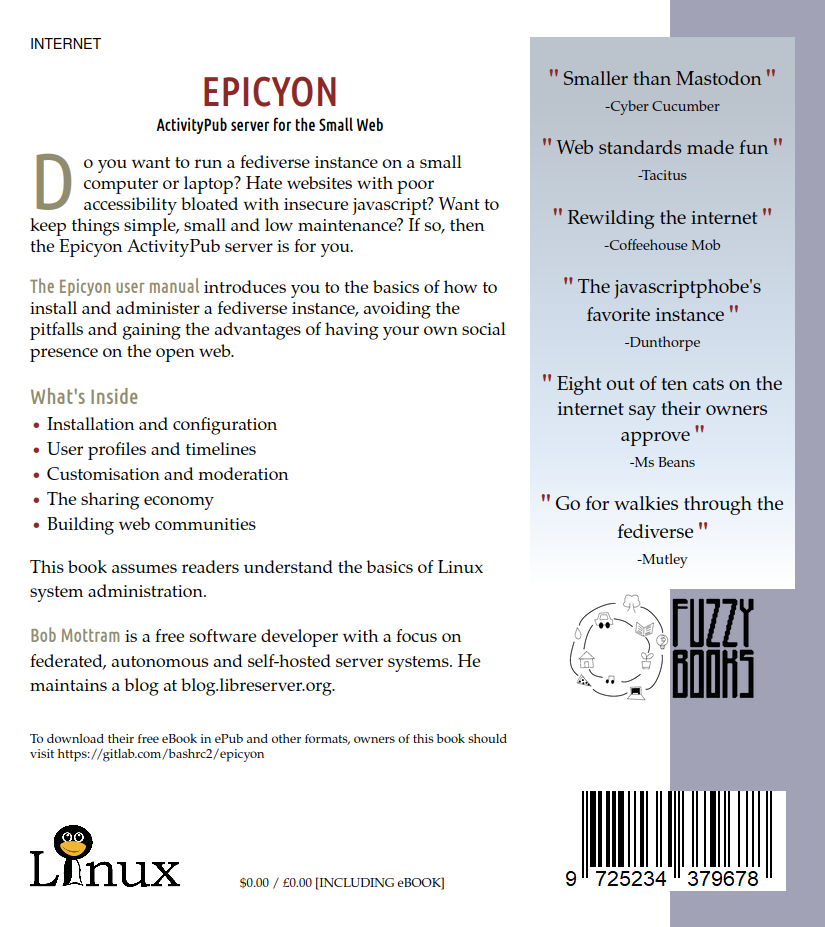
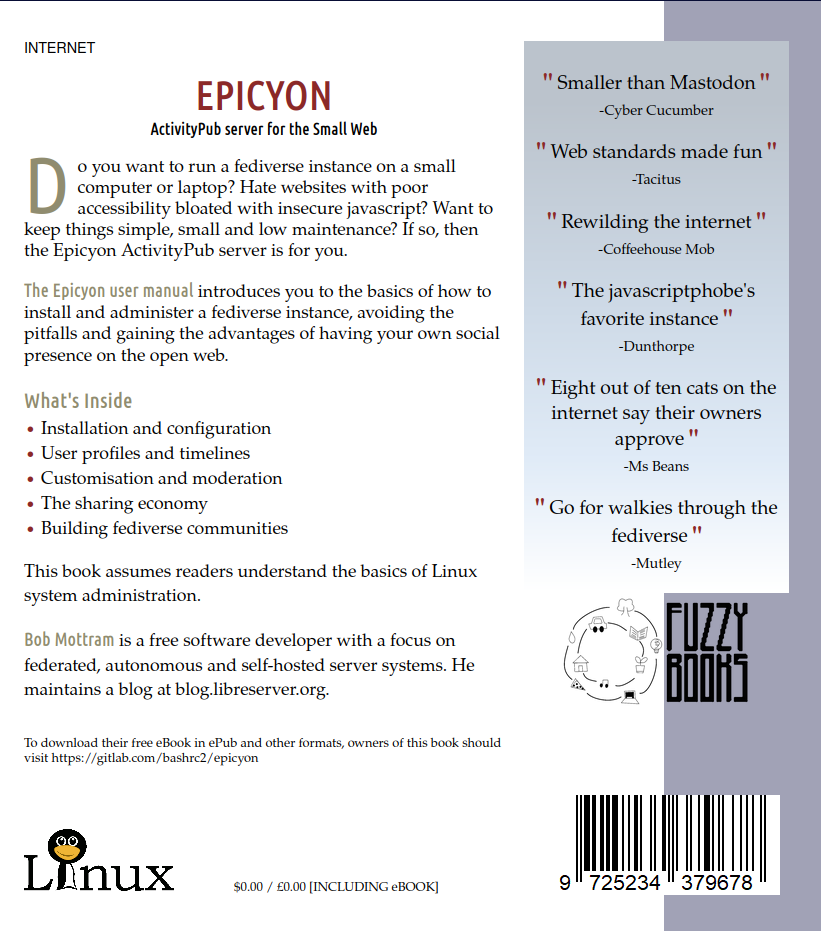
Fediverse

diff --git a/manual/back/index.html b/manual/back/index.html
@@ -49,7 +49,7 @@
                             <li>User profiles and timelines</li>
                             <li>Customisation and moderation</li>
                             <li>The sharing economy</li>
-                            <li>Building web communities</li>
+                            <li>Building fediverse communities</li>
                         </ul>
 
                         <p>This book assumes readers understand the basics of Linux system administration.</p>
